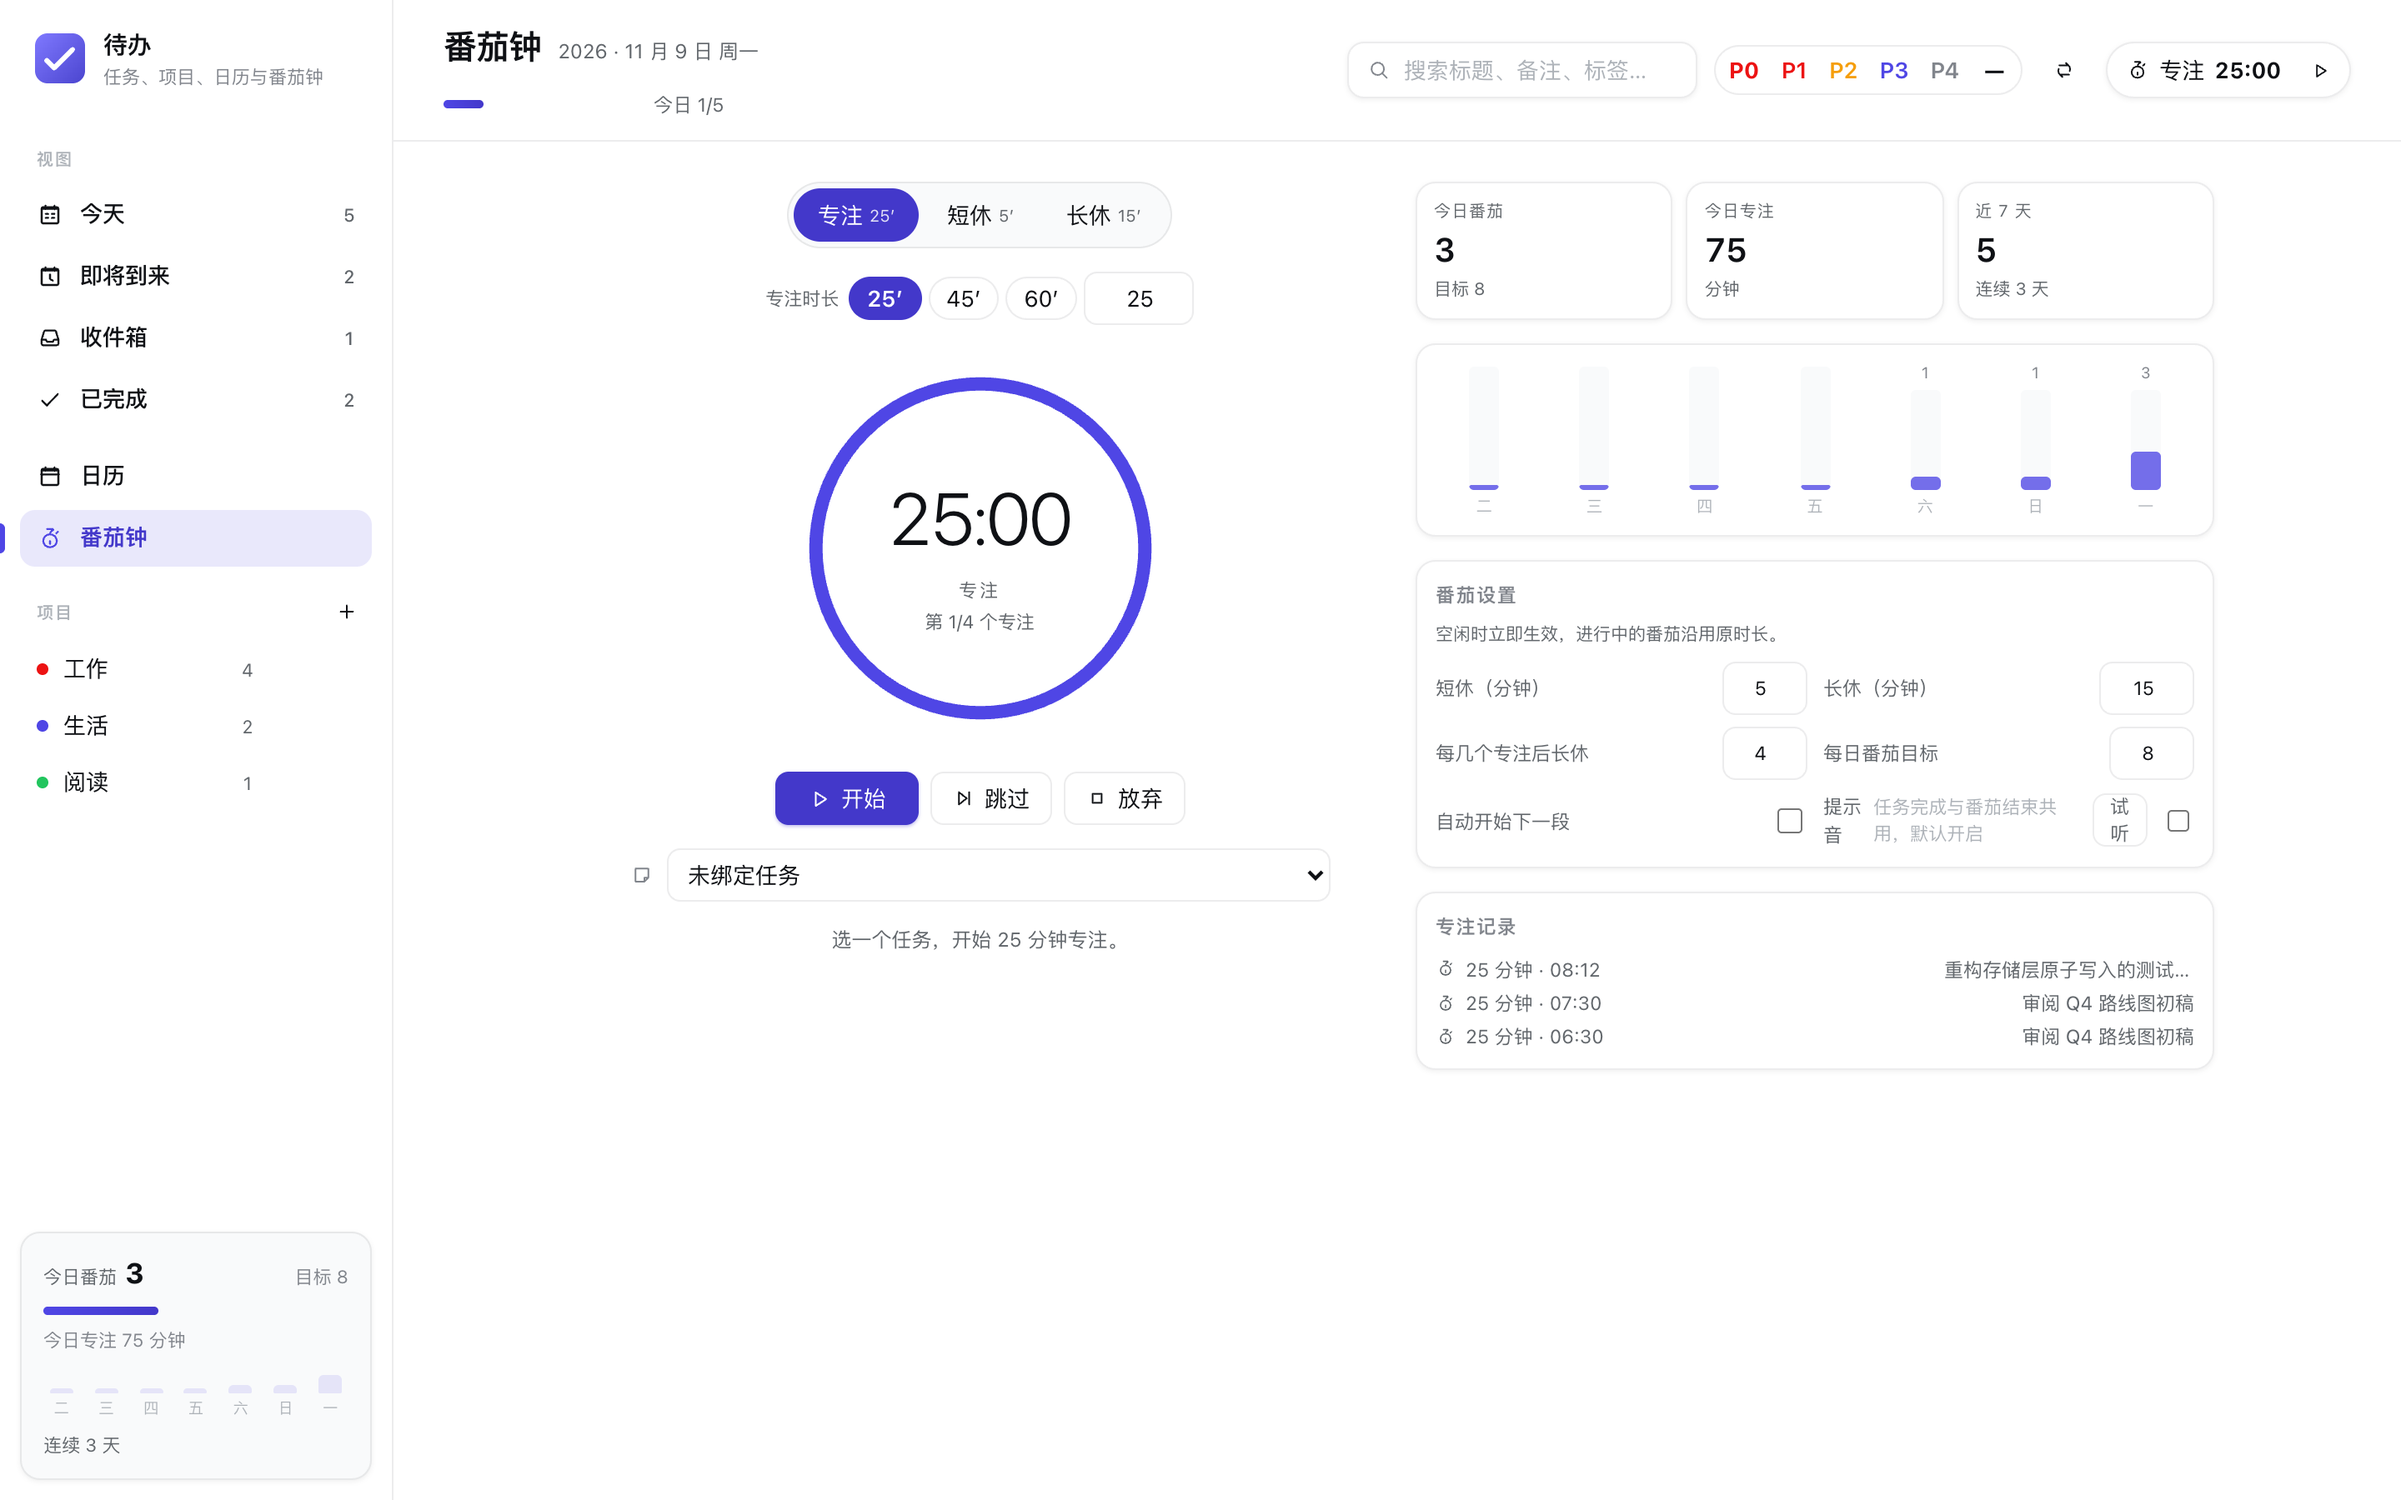
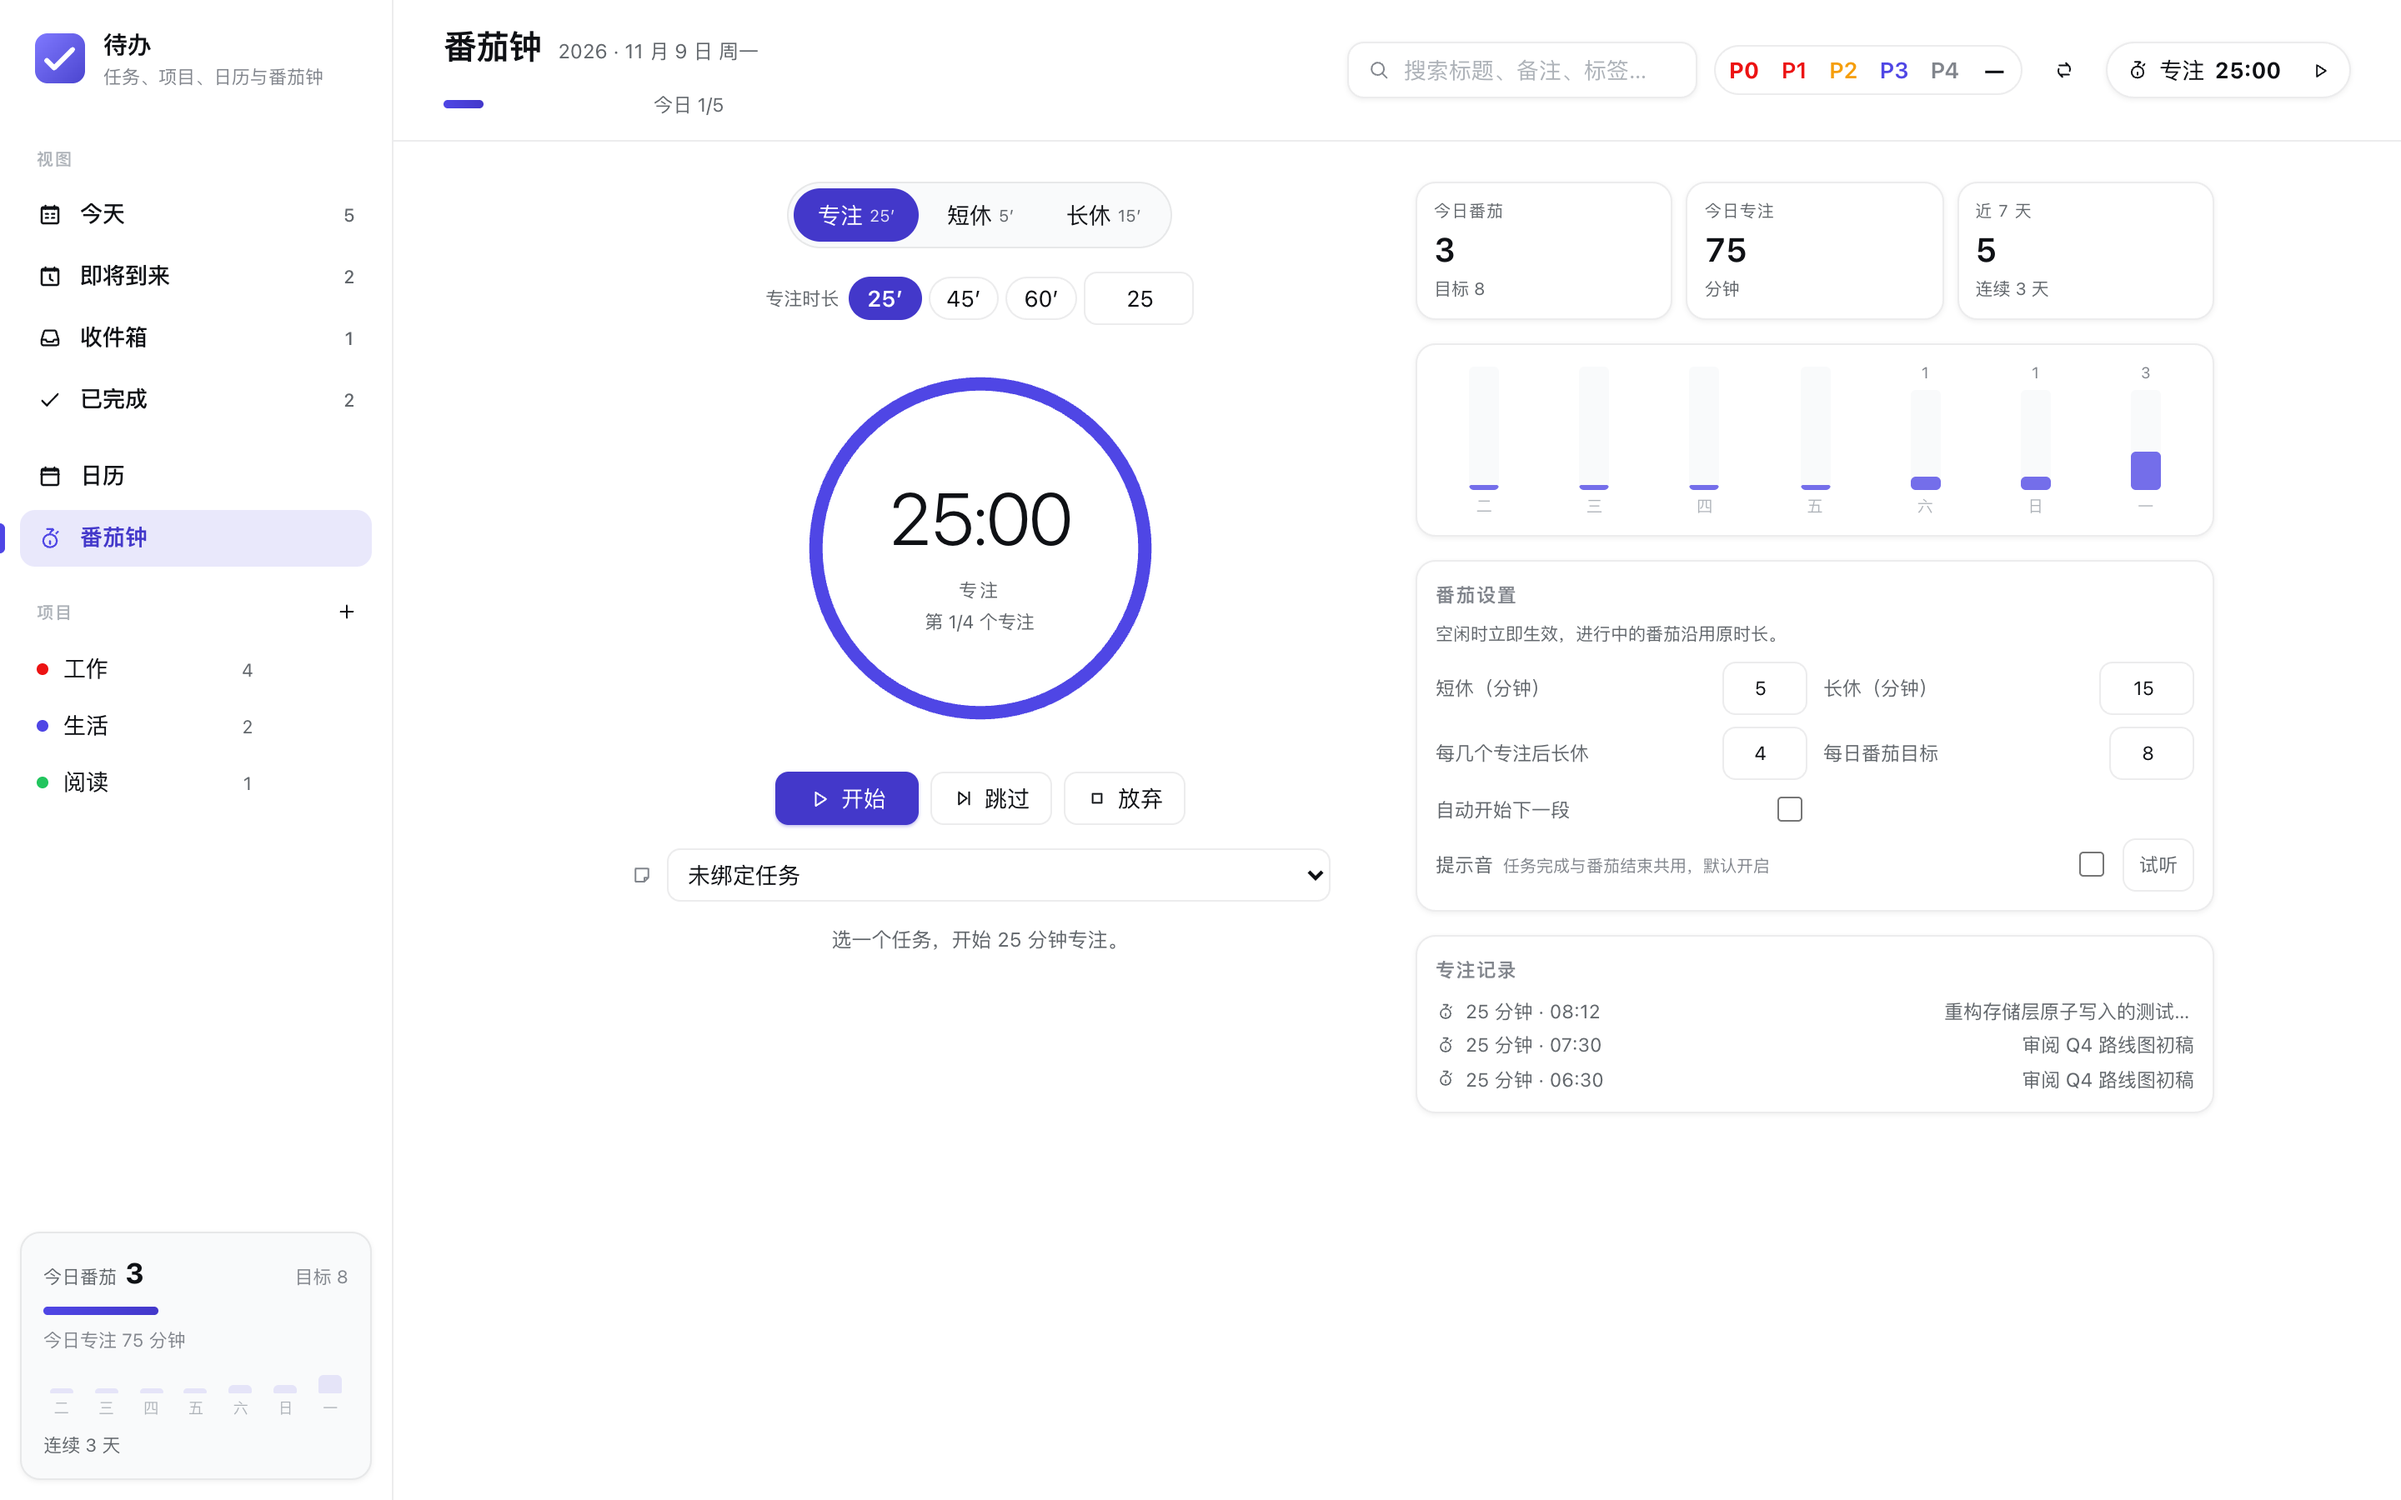
fix: align pomodoro settings controls

Changed region(s): [[0.5938, 0.5289, 0.7188, 0.7467], [0.8125, 0.6222, 0.9062, 0.7467], [0.75, 0.5289, 0.8438, 0.56]]

diff --git a/lib/client.js b/lib/client.js
@@ -161,7 +161,7 @@ window.__ModuleLoader__.load({
         "pom.bindTask": "绑定任务",
         "pom.noTask": "未绑定任务",
         "pom.cycle": "第 {n}/{total} 个专注",
-        "pom.cycleDone": "已完成 {n} 个专注",
+        "pom.cycleDone": "今日已完成 {n} 个专注",
         "pom.idleHint": "选一个任务，开始 {n} 分钟专注。",
         "pom.finishedFocus": "这个番茄结束了，休息一下。",
         "pom.finishedBreak": "休息结束，回到专注吧。",
@@ -458,7 +458,7 @@ window.__ModuleLoader__.load({
         "pom.bindTask": "Linked task",
         "pom.noTask": "No linked task",
         "pom.cycle": "Focus {n}/{total}",
-        "pom.cycleDone": "{n} focus sessions done",
+        "pom.cycleDone": "{n} focus sessions completed today",
         "pom.idleHint": "Pick a task and start a {n} minute focus.",
         "pom.finishedFocus": "Focus finished. Take a break.",
         "pom.finishedBreak": "Break over. Back to focus.",
@@ -4084,7 +4084,7 @@ window.__ModuleLoader__.load({
               ),
               h(
                 "label",
-                { className: "todo-setting todo-setting-toggle" },
+                { className: "todo-setting todo-setting-toggle todo-setting-sound" },
                 h(
                   "span",
                   { className: "todo-setting-text" },
@@ -4094,6 +4094,11 @@ window.__ModuleLoader__.load({
                 h(
                   "span",
                   { className: "todo-setting-actions" },
+                  h("input", {
+                    type: "checkbox",
+                    checked: settings.sound === true,
+                    onChange: (event) => ui.onSettings({ sound: event.target.checked }),
+                  }),
                   h(
                     "button",
                     {
@@ -4106,11 +4111,6 @@ window.__ModuleLoader__.load({
                     },
                     t("settings.soundTest"),
                   ),
-                  h("input", {
-                    type: "checkbox",
-                    checked: settings.sound === true,
-                    onChange: (event) => ui.onSettings({ sound: event.target.checked }),
-                  }),
                 ),
               ),
             ),
@@ -5426,6 +5426,11 @@ window.__ModuleLoader__.load({
 .todo-setting { display: flex; align-items: center; justify-content: space-between; gap: 8px; font-size: 11.5px; color: var(--dsw-alias-label-secondary); }
 .todo-setting .todo-input { width: auto; }
 .todo-setting-toggle input { width: 15px; height: 15px; accent-color: var(--todo-accent); }
+.todo-setting-sound { grid-column: 1 / -1; align-items: center; }
+.todo-setting-text { min-width: 0; }
+.todo-setting-hint { display: block; margin-top: 2px; font-size: 10px; font-style: normal; color: var(--dsw-alias-label-tertiary); }
+.todo-setting-actions { display: inline-flex; align-items: center; gap: 8px; flex: none; }
+.todo-setting-actions .todo-btn { white-space: nowrap; }
 .todo-pom-log ul { list-style: none; margin: 0; padding: 0; display: flex; flex-direction: column; gap: 3px; }
 .todo-pom-log li { display: flex; align-items: center; gap: 6px; font-size: 11.5px; color: var(--dsw-alias-label-secondary); }
 .todo-pom-log-task { margin-left: auto; max-width: 150px; overflow: hidden; text-overflow: ellipsis; white-space: nowrap; color: var(--dsw-alias-label-tertiary); }

diff --git a/README.md b/README.md
@@ -60,7 +60,7 @@ An unstarted focus stays quiet; a short or long break shows as soon as it become
 - **Priorities & Labels**: P0 (Critical, filled red), P1 (Urgent, red), P2 (High, orange), P3 (Medium, blue), P4 (Low, gray); quick add accepts `!p0`–`!p4`, plus arbitrary `#project` and `@tag` labels.
 - **Calendar Grid**: Interactive monthly grid displaying task count dots; clicking any date filters tasks for that specific day.
 - **Search & Filter**: Real-time keyword search across titles and notes, combined with multi-select priority filters.
-- **Confident completion & editing**: The task drawer keeps autosave and adds an explicit Save button (`⌘/Ctrl+Enter`). Completing a task gets a focused confirmation with its title, a six-second Undo action, and the next date for recurring tasks; Today summarizes progress with a direct completed/total count.
+- **Confident completion & editing**: The task drawer keeps autosave and adds an explicit Save button (`⌘/Ctrl+Enter`). Completing a task gets a focused confirmation with its title, a six-second Undo action, and the next date for recurring tasks; Today pairs a compact progress ring with completed/total counts.
 
 ### Pomodoro Timer
 - **Work Cycles**: 25-minute focus, 5-minute short break, 15-minute long break every 4 focus sessions. Pick the focus length right on the timer (25 / 45 / 60 or custom) or fine-tune every duration in settings; changes apply immediately when idle and never cut a running session short.
@@ -129,7 +129,7 @@ Refresh the DeepSeek Harness Web GUI to see the **Todo** entry in the left sideb
 
 ## Development & Testing
 
-Run the full test suite (145 unit and integration tests across storage, recurrence rules, HTTP routes, agent tool, natural language parsing, Pomodoro state machine, settings persistence, and bilingual dictionaries):
+Run the full test suite (146 unit and integration tests across storage, recurrence rules, HTTP routes, agent tool, natural language parsing, Pomodoro state machine, settings persistence, and bilingual dictionaries):
 
 ```bash
 npm test
